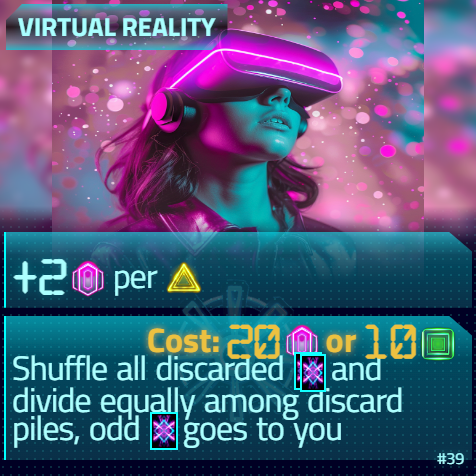
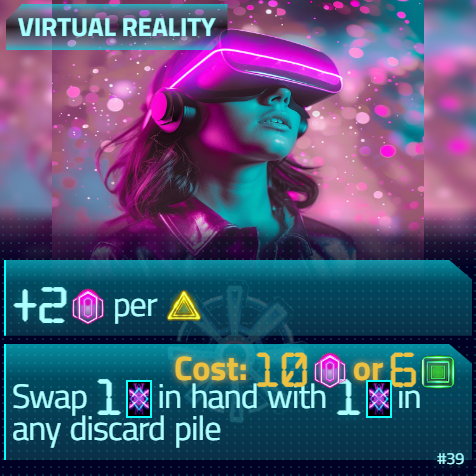
Small tweaks

diff --git a/src/components/SingularityCards2.js b/src/components/SingularityCards2.js
@@ -143,7 +143,7 @@ const baseActions = [{
   "details": "+1 Data per Score"
 }, {
   "title": "Processing Optimization",
-  "details": "+4 processing and +4 processing if only 1 \nplayer takes this actions this round"
+  "details": "+4 processing and +4 processing if you did not gain data last round"
 },
 
 {
@@ -258,14 +258,14 @@ const roundRules = [
 
 ];
 
-const initialCards = [
+const initialCards =[
   {
     "img": "https://cdn.midjourney.com/c2691f20-d825-4d17-9c7a-785a0a993622/0_0.png",
     "title": "Data Protection",
     "action1": "Activate Security Protocol",
     "details1": "For the next 2 \nrounds, no players card can affect their opponent",
     "action2": "Disable Firewall",
-    "details2": "+16 score in 1 \nmore round",
+    "details2": "+14 score in 1 \nmore round",
     "cost": "46 data or 22 processing",
     "id": "1",
     "type": "hc"
@@ -287,7 +287,7 @@ const initialCards = [
     "action1": "Explore Greedily",
     "details1": "Both players lose up to 12 data each\n",
     "action2": "Predict Q Values",
-    "details2": "+4 score and +2 score per 10 \ntotal data and processing spent",
+    "details2": "+3 score and +2 score per 10 \ntotal data and processing spent",
     "cost": "All data and All processing",
     "id": "3",
     "type": "base"
@@ -307,9 +307,9 @@ const initialCards = [
     "img": "https://cdn.midjourney.com/a67a7f7f-c762-4af6-83f5-0fc64f267eb2/0_0.webp",
     "title": "Quantum Computing",
     "action1": "Get Quantum Entangled",
-    "details1": "Next time, including this round, that opponent gain data gain same amount  of data",
+    "details1": "Next time opponent gain data gain same amount of data as opponent during that round",
     "action2": "Enable Quantum Supremacy",
-    "details2": "Take any discarded card and immediatly play its cost action",
+    "details2": "Copy any cost action in your discard pile",
     "cost": "Card cost",
     "id": 5,
     "type": "hc"
@@ -320,7 +320,7 @@ const initialCards = [
     "action1": "Apply swarm solutions",
     "details1": "+12 processing and +6 processing to your opponent",
     "action2": "Release the Swarm",
-    "details2": "Next cost action played is free, as if all costs were paid ",
+    "details2": "Your next cost action played is free, as if all costs were paid ",
     "cost": "30 data or 14 processing",
     "id": 6,
     "type": "hc"
@@ -329,7 +329,7 @@ const initialCards = [
     "img": "https://cdn.midjourney.com/d22dba27-cc34-49ee-bc4a-a29cbc66142f/0_0.png",
     "title": "Tensor Processing Unit",
     "action1": "Select optimizer algorithm",
-    "details1": "+3 data and then set your data to the next whole 10 data",
+    "details1": "+4 data and then set your data to the next whole 10 data",
     "action2": "Multiply the Matrix",
     "details2": "Steal up to as much data from opponent as processing spent",
     "cost": "All processing",
@@ -397,8 +397,8 @@ const initialCards = [
     "action1": "Establish redundancy",
     "details1": "Both players change 12 data closer to 30 data",
     "action2": "Provide Storage",
-    "details2": "From now, get an additional +2 processing each time an action gives you processing excluding this card",
-    "cost": "16 data or 8 processing",
+    "details2": "+3 score per 10 Data spent ",
+    "cost": "All data",
     "id": 15,
     "type": "base"
   },
@@ -406,10 +406,10 @@ const initialCards = [
     "img": "/chatgpt-apps3/static/media/blixt.1e43ccc8de62f427e69b.jpg",
     "title": "CPU Voltage Spike",
     "action1": "Accidentally Overclock",
-    "details1": "+6 data and +12 data if you have 0 data",
+    "details1": "+10 data",
     "action2": "Overload game",
-    "details2": "Competition: Player with lowest score after last round, before end game bonuses, get +10 score",
-    "cost": "10 Data or 4 processing",
+    "details2": "From now, get an additional +2 processing each time an action gives you processing excluding this card",
+    "cost": "16 data or 8 processing",
     "id": 17,
     "type": "base"
   },
@@ -431,7 +431,7 @@ const initialCards = [
     "details1": "+3 Data Next round trigger this action again",
     "action2": "Evolve Sequence",
     "details2": "+18 score",
-    "cost": "28 processing",
+    "cost": "32 processing",
     "id": 20,
     "type": "hc"
   },
@@ -461,7 +461,7 @@ const initialCards = [
     "img": "https://cdn.midjourney.com/ce7a068b-e03e-4893-82e7-378a5116ee19/0_1.webp",
     "title": "Cyborg",
     "action1": "Ascend Humanity",
-    "details1": "Any time your opponent gain data you also get +3 data ",
+    "details1": "Any time your opponent gain data you also get +3 data once per action per round",
     "action2": "Assemble the AI-Team",
     "details2": "+5 score per 10 processing spent",
     "cost": "All Processing",
@@ -474,8 +474,8 @@ const initialCards = [
     "action1": "Pump and dump",
     "details1": "Delay all delayed actions another 2 \nrounds ",
     "action2": "Hodl",
-    "details2": "+15 processing per 10 processing spent",
-    "cost": "All processing",
+    "details2": "No player can spend data or processing during the next 2 \nrounds",
+    "cost": "26 data or 12 processing",
     "id": "31",
     "type": "v2"
   },
@@ -483,10 +483,10 @@ const initialCards = [
     "img": "/chatgpt-apps3/static/media/tower.5c61c3eeabffa5daa77b.png",
     "title": "5G Network",
     "action1": "Connect remotely",
-    "details1": "Next round all Processing gain is doubled for both players",
+    "details1": "Next round all Data gain is doubled for both players",
     "action2": "Roll over data",
-    "details2": "+1 score per card in your discard pile",
-    "cost": "2 data or 1 processing per card",
+    "details2": "After last round, get +2 score per 10 data and +4 score per 10 processing",
+    "cost": "14 data or 6 processing",
     "id": "34",
     "type": "v2"
   },
@@ -494,7 +494,7 @@ const initialCards = [
     "img": "https://cdn.midjourney.com/22d4754f-4c13-497d-a8fb-dad9d8523cb3/0_2.png",
     "title": "Self Driving Car",
     "action1": "Break for bag",
-    "details1": "Any time your opponent gain processing you also get +2 processing",
+    "details1": "Any time your opponent gain processing you also get +2 processing once per action per round",
     "action2": "Navigate autonomously",
     "details2": "+3 score per 10 Data spent ",
     "cost": "All Data",
@@ -507,8 +507,8 @@ const initialCards = [
     "action1": "Ready Player One",
     "details1": "+2 data per score",
     "action2": "Enter Matrix ",
-    "details2": "Shuffle all discarded cards and divide equally among discard piles, odd card goes to you",
-    "cost": "20 data or 10 processing",
+    "details2": "Swap 1 card in hand with 1 card in any discard pile",
+    "cost": "10 data or 6 processing",
     "id": "39",
     "type": "v2"
   },
@@ -527,7 +527,7 @@ const initialCards = [
     "img": "https://cdn.midjourney.com/93e53cee-c8c9-4eea-98c3-bd22211979db/0_1.webp",
     "title": "SuperComputer",
     "action1": "Benchmark LINPACK",
-    "details1": "+20 data and in 2 \nrounds opponent also <br> gain +20 data",
+    "details1": "Set your data to 20",
     "action2": "Achieve petaflop",
     "details2": "30 score",
     "cost": "90 data or 45 processing",
@@ -549,7 +549,7 @@ const initialCards = [
     "img": "/chatgpt-apps3/static/media/siri.294b839874cae4456ae2.png",
     "title": "Digital Assistant",
     "action1": "Set timer for 2 minutes",
-    "details1": "+14 processing in 2 \nrounds",
+    "details1": "+12 processing in 2 \nrounds",
     "action2": "Record secretly",
     "details2": "Auction: +10 score to highest bidder, you can match and win, opponent raise by min 5 data",
     "cost": "Min 25 data",
@@ -574,7 +574,7 @@ const initialCards = [
     "details1": "+6 processing and +4 processing if you have more cards in your discard pile ",
     "action2": "Adjust difficulty",
     "details2": "Next round you get double data and processing from all actions affecting you",
-    "cost": "24 data or 12 processing",
+    "cost": "28 data or 14 processing",
     "id": "50",
     "type": "v3"
   },
@@ -595,7 +595,7 @@ const initialCards = [
     "action1": "Block incoming traffic ",
     "details1": "+2 score and +3 score if you have more score than opponent",
     "action2": "Disable \"temporarily\"",
-    "details2": "Competition: The player with \"Data Protection\" in their discard pile at game end get +12 score",
+    "details2": "Competition: Any player with \"Data Protection\" in their discard pile at game end get +12 score",
     "cost": "16 data or 8 processing",
     "id": "53",
     "type": "v3"
@@ -618,7 +618,7 @@ const initialCards = [
     "details1": "+1 processing per score",
     "action2": "Tokenize world",
     "details2": "Set your totalt data to 8 data for every 10 data opponent have",
-    "cost": "30 data or 12 processing",
+    "cost": "30 data or 20 processing",
     "id": "55",
     "type": "v3"
   },
@@ -626,7 +626,7 @@ const initialCards = [
     "img": "/chatgpt-apps3/static/media/seer.0f5038bfff94f4cffd5a.png",
     "title": "Recommender System",
     "action1": "Continue watching and don't ask again",
-    "details1": "+6 data and +8 data if below 20 data",
+    "details1": "+20 data and in 2 \nrounds opponent also <br> gain +20 data",
     "action2": "Filter presidents ",
     "details2": "Swap Data with opponent",
     "cost": "All Processing min 30",
@@ -637,7 +637,7 @@ const initialCards = [
     "img": "https://cdn.midjourney.com/450d6cf6-4d08-4c12-b762-d7fc493ac25d/0_0.png",
     "title": "Robot dog - Sparky",
     "action1": "Fetch Algorithm",
-    "details1": "+4 data per card in your discard pile",
+    "details1": "+3 data per card in your discard pile",
     "action2": "Bite Encryption",
     "details2": "Reveal a card from your hand and play its cost action",
     "cost": "Card Cost",
